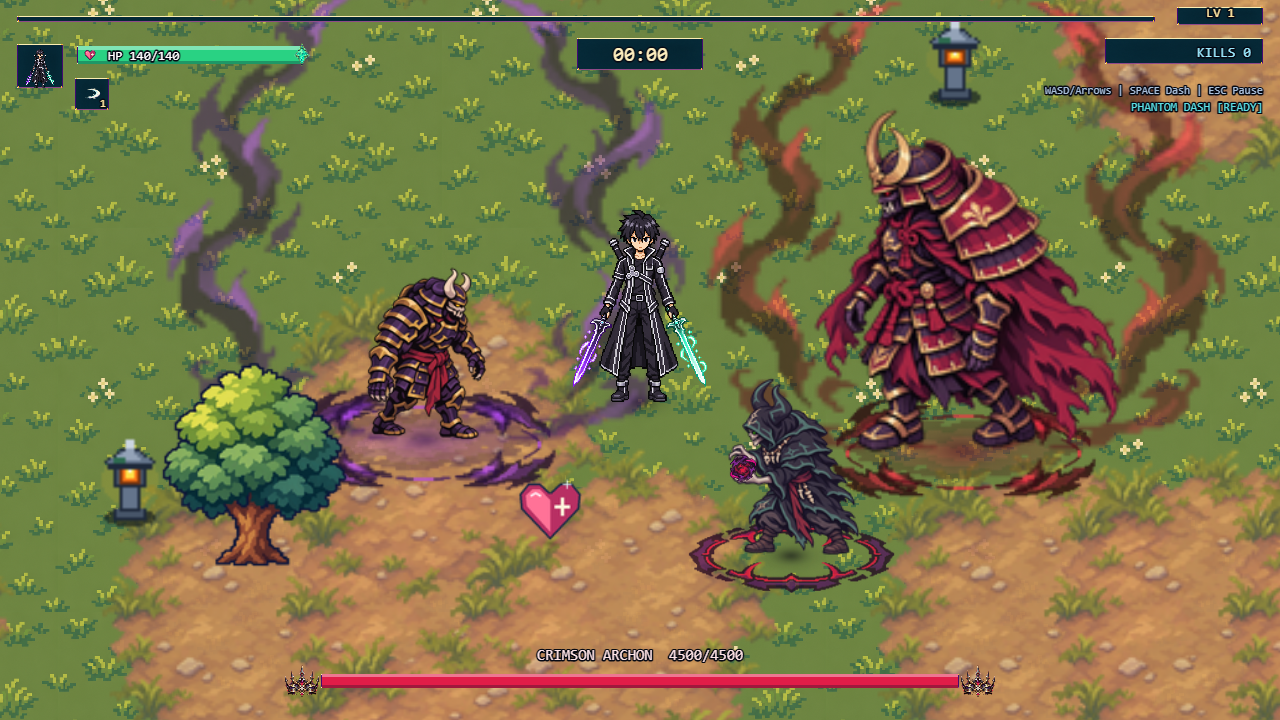
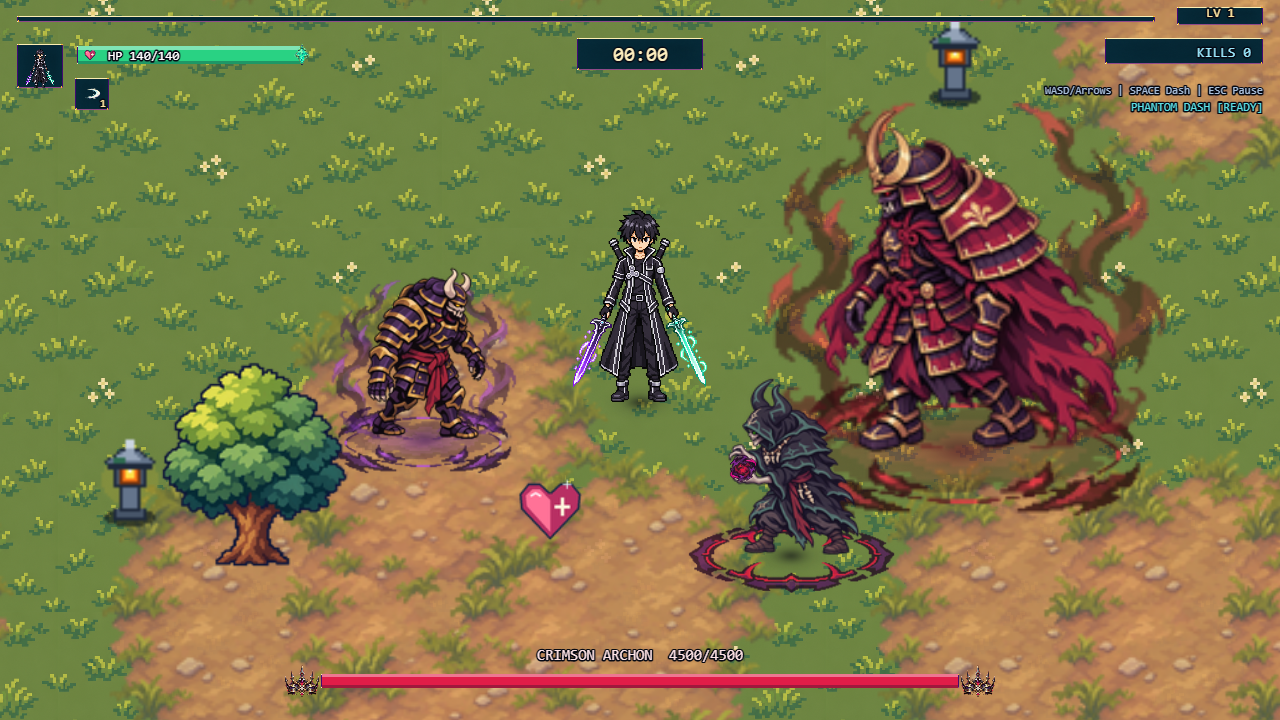
Fit elite and boss aura layers to standing model bounds

diff --git a/docs/PROGRESS.md b/docs/PROGRESS.md
@@ -255,3 +255,5 @@ pm run verify (16 files / 70 Vitest tests, TS, ESLint, check-architecture, sprit
 - Isolated source copy: C:/Users/ASUS/Desktop/AnimeSurvivor-AssetReview-4dir-20261118/project. Authored four-direction180ms Dash/afterimages attached to existing logic there; scoped source changes stored in art/source/actor-v2/integration.patch. Main live gameplay source/public runtime assets untouched.
 - Verified isolated npm run verify: PASS16files/70Vitest tests, TS, ESLint, architecture, sprite checks, production build. New package: PASS72sheets/220exact crops and141original PNG hashes/dimensions. Browser harness:58clips, no page/console/network errors. Actual keyboard Dash:4directions, no flipped ghosts, ghost expiry, cooldown and pause. Browser size checks:128/256body references, stable caster scale, pickup art59.2px with body29.6px. Final HUD/world screenshots inspected. Evidence in art/source/actor-v2/qa.
 - Game review: http://127.0.0.1:5184/?play=1&hero=kirito ; asset harness: /review.html . Protected5173 remains running. No deployment/user acceptance claimed; no60-second full run or crowded-combat GPU profile performed.
+
+- Aura follow-up: fixed elite/boss aura proportions in isolated EnemyAura. Fixed standing-reference bounds cap outer aura at0.9body-height/1.2body-width and keep the ground ring on footOffset. Browser measured elite body128px, outer106px, ring117px; anchor deviation under0.51px. New screenshot/QA recorded; isolated npm run verify passed again.

diff --git a/docs/ART_PIPELINE.md b/docs/ART_PIPELINE.md
@@ -64,3 +64,5 @@ Arcane UI:8 individual built-in ImageGen originals retained in art/source/arcane
 
 - Latest size override (2026-11-18): independently of camera1.5x, enlarge combat world artwork +100%; normalized player/normal/elite standing body128px, boss256px. Enlarge skills/VFX/pickups/shadows together, preserve source PNGs, world collision sizes and HUD/damage-text sizes. A separate HUD camera keeps UI anchors stable. Apply/playtest in the isolated copy before changing protected5173.
 - Latest batch reduction: at most5 additional generated frames after the cap. Elite/boss reactions are reduced to front-only, one hit pose and one defeated pose, with intermediate falls/other directions deferred. Boss defeated is still missing because the image tool reached its usage limit. Never resume the archived192-frame target automatically.
+
+- Aura sizing correction: size elite/boss layers from fixed standing opaque model bounds, rather than multiplying independent aura scale constants. Outer aura is at most0.9body-height and1.2body-width; projected rings remain centered at footOffset. Recheck after global world-art scaling.

diff --git a/art/source/actor-v2/README.md b/art/source/actor-v2/README.md
@@ -13,3 +13,5 @@ The staged integration.patch applies only to the recorded source snapshot in the
 QA evidence is in qa/. Existing legacy boss neutral/cast source may touch image edges; packing adds padding but cannot restore already missing source pixels. Native high-resolution art is larger in download/VRAM than downsampled art. No user visual acceptance or long-run performance test is claimed.
 
 The standalone HTML expects /vendor/phaser.js. For a fresh standalone preview copy the already-installed node_modules/phaser/dist/phaser.js into site/vendor/phaser.js before serving site/. This dependency is intentionally not vendored in Git.
+
+Aura follow-up: staged EnemyAura now fits elite/boss layers to fixed standing bounds, with outer height capped at90%body and width120%body. See qa/aura-fitted.png and qa/aura-fit-qa.json. No additional images were generated for this fix.
